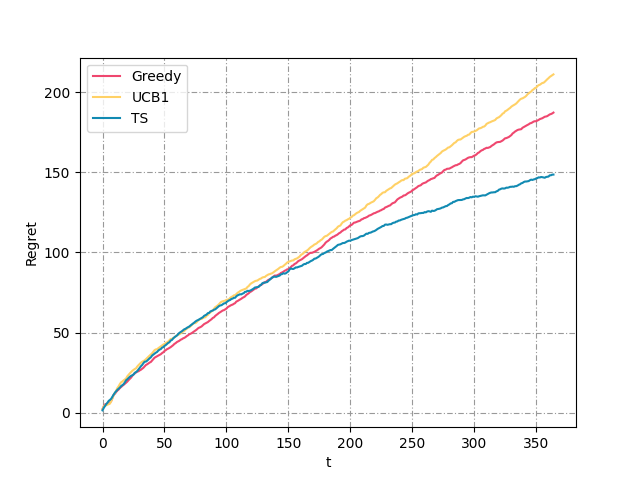
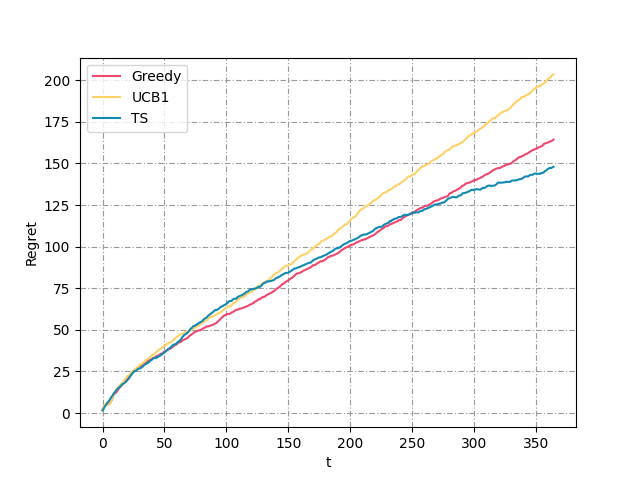
aggiunto un pò di seed

diff --git a/learners.py b/learners.py
@@ -43,7 +43,6 @@ class Greedy_Learner(Learner):
         if (self.t < self.n_arms):
             return self.t
         idxs = np.argwhere(self.expected_rewards == self.expected_rewards.max()).reshape(-1)
-        np.random.seed(123)
         pulled_arm = np.random.choice(idxs)
         return pulled_arm
 
@@ -65,7 +64,6 @@ class UCB1(Learner):
             arm = self.t
         else:
             upper_bound = (self.empirical_means + self.confidence)*self.prices
-            np.random.seed(123)
             arm = np.random.choice(np.where(upper_bound == upper_bound.max())[0])
         return arm
 
@@ -90,7 +88,6 @@ class TS_Learner(Learner):
 
     def pull_arm(self):
         
-        np.random.seed(123)
         beta_samples = np.random.beta(self.beta_parameters[:,0], self.beta_parameters[:,1])
         expected_rewards = np.multiply(beta_samples, self.candidates)
 

diff --git a/experiments/experiment_5.py b/experiments/experiment_5.py
@@ -25,6 +25,7 @@ class Experiment5():
         self.n_experiments = 1
         self.gpts_reward_per_experiment = []
         self.p_arms = []
+        np.random.seed(123)
 
     def run(self):
         for e in tqdm(range(self.n_experiments)):

diff --git a/experiments/experiment_3.py b/experiments/experiment_3.py
@@ -25,6 +25,8 @@ class Experiment3():
         self.gr_reward_per_experiments = []
         self.uc_reward_per_experiments = []
         self.ts_reward_per_experiments = []
+
+        np.random.seed(123)
     
     def run(self):
 

diff --git a/experiments/experiment_4.py b/experiments/experiment_4.py
@@ -35,6 +35,8 @@ class Experiment4():
 
         self.colors = self.cm.colors
 
+        np.random.seed(123)
+
     def run(self):
         pg = PersonGenerator(self.classes, self.class_distribution)
 

diff --git a/experiments/experiment_6.py b/experiments/experiment_6.py
@@ -29,3 +29,5 @@ class Experiment6():
 
         self.T = 365 # number of days
         self.n_experiments = 100
+
+        np.random.seed(123)
